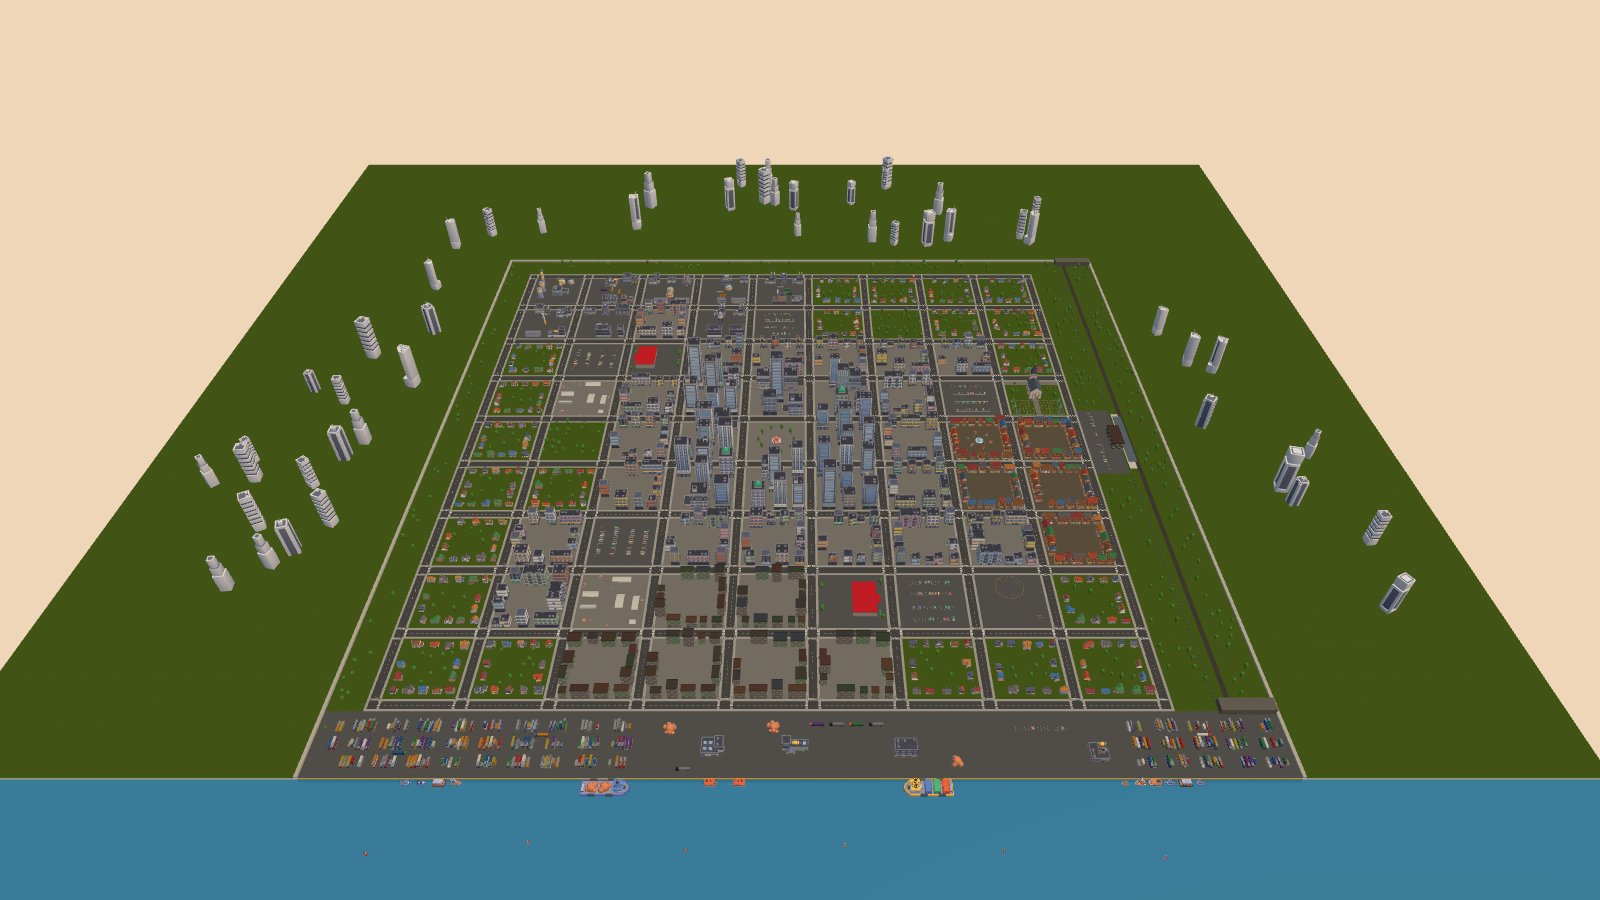
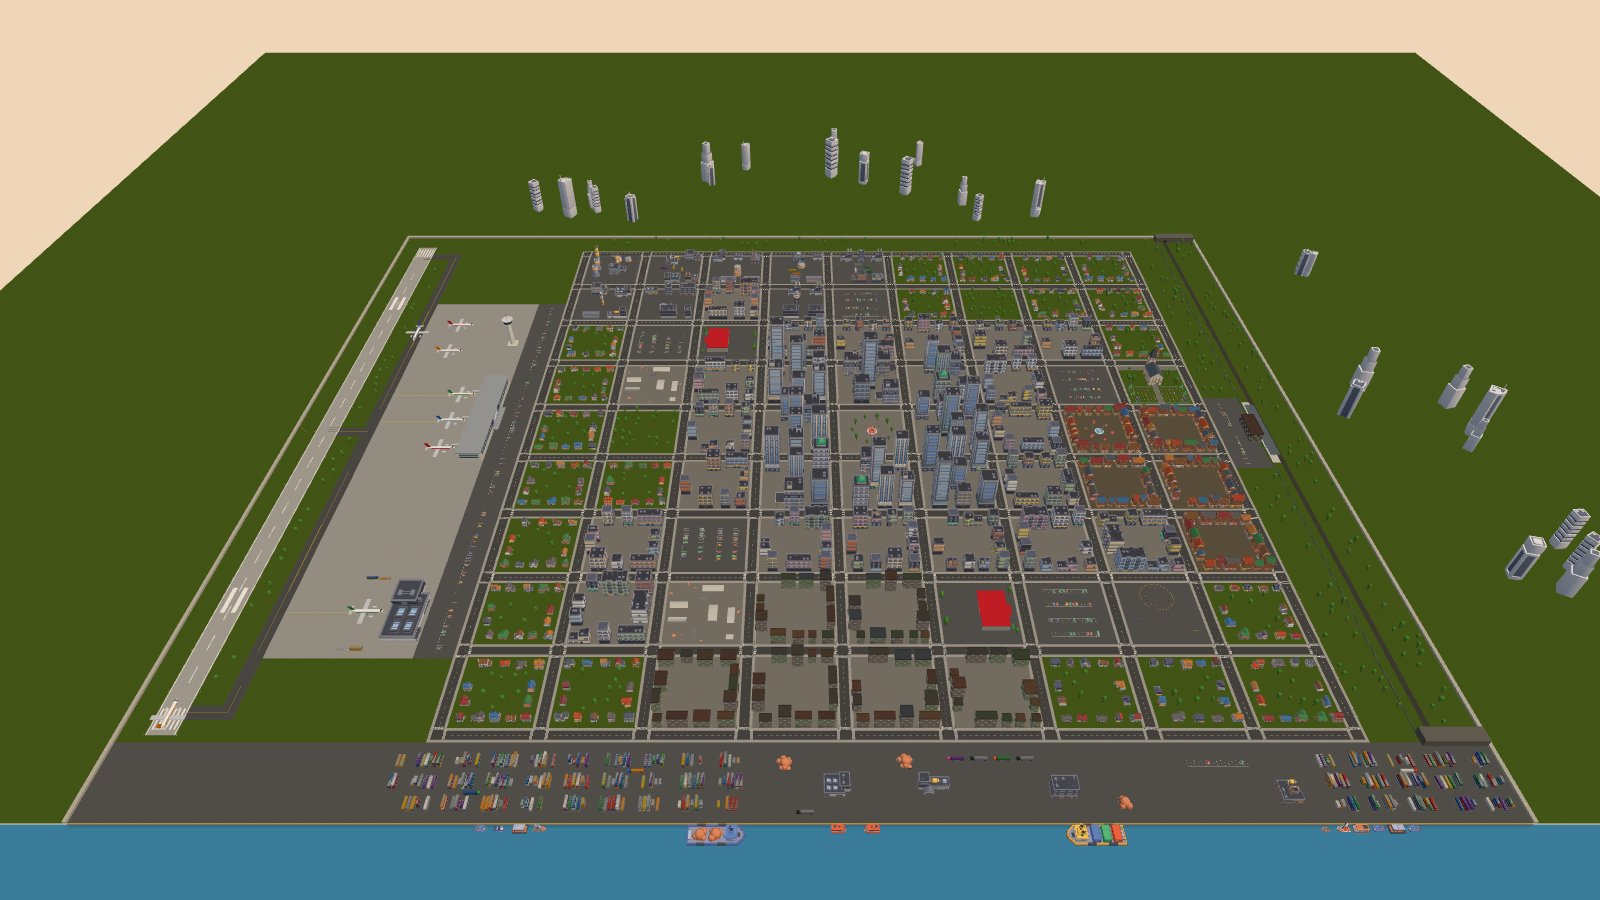
v1.4.1: Neues Übersichtsbild der Übungsstadt im README

diff --git a/README.md b/README.md
@@ -1,6 +1,6 @@
 # Spidi Race 🏁
 
-![Version](https://img.shields.io/badge/version-1.4.0-ffcc00)
+![Version](https://img.shields.io/badge/version-1.4.1-ffcc00)
 ![Lizenz Code](https://img.shields.io/badge/code-MIT-blue)
 ![Lizenz Assets](https://img.shields.io/badge/assets-CC0-green)
 ![Docker](https://img.shields.io/badge/docker-ready-2496ED)
@@ -314,7 +314,7 @@ scripts/  Asset-Download
 
 ## Versionierung
 
-Das Projekt folgt [Semantic Versioning](https://semver.org/lang/de/). Die aktuelle Version ist **1.4.0**. Änderungen stehen im [CHANGELOG](CHANGELOG.md), Releases sind als Git-Tags `vX.Y.Z` markiert. Die Version steht auch unten rechts im Hauptmenü.
+Das Projekt folgt [Semantic Versioning](https://semver.org/lang/de/). Die aktuelle Version ist **1.4.1**. Änderungen stehen im [CHANGELOG](CHANGELOG.md), Releases sind als Git-Tags `vX.Y.Z` markiert. Die Version steht auch unten rechts im Hauptmenü.
 
 ## Lizenz und Credits
 

diff --git a/CHANGELOG.md b/CHANGELOG.md
@@ -2,6 +2,11 @@
 
 Alle nennenswerten Änderungen an diesem Projekt. Format nach [Keep a Changelog](https://keepachangelog.com/de/1.1.0/), Versionierung nach [Semantic Versioning](https://semver.org/lang/de/).
 
+## [1.4.1] – 2026-10-19
+
+### Geändert
+- README: neues Übersichtsbild der Übungsstadt von oben, mit Flugplatz, Bahnhof und Hafen
+
 ## [1.4.0] – 2026-10-19
 
 ### Hinzugefügt
@@ -348,6 +353,7 @@ Erste stabile Version: Das Spiel ist auf echter Hardware getestet.
 - HUD mit Minimap, synthetischer Sound, 3 Kameras
 - Docker-Image und docker-compose (Port 8090)
 
+[1.4.1]: https://github.com/defendeggu/spidi-race/compare/v1.4.0...v1.4.1
 [1.4.0]: https://github.com/defendeggu/spidi-race/compare/v1.3.0...v1.4.0
 [1.3.0]: https://github.com/defendeggu/spidi-race/compare/v1.2.0...v1.3.0
 [1.2.0]: https://github.com/defendeggu/spidi-race/compare/v1.1.0...v1.2.0
